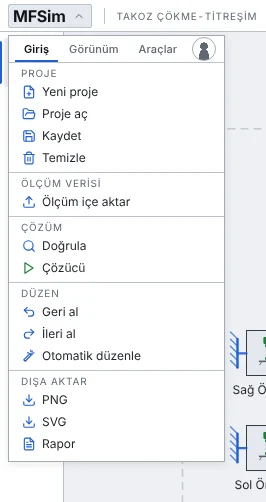
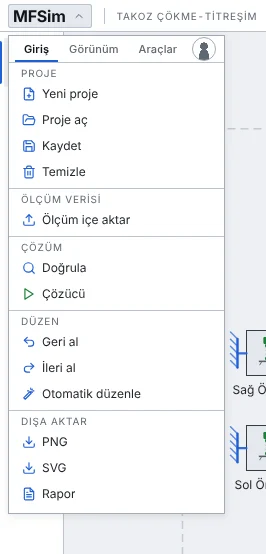
Canlı not 142: Komutlar penceresinde satırlar biraz açıldı
Komutlar penceresinin (MFSim ▾) satırları 22 px'ti. Kullanıcı: "Şu
kısımda butonlar arasını biraz açabiliriz. Çok yakın ve çok sıkı olmuş.
Bir miktar ama, çok değil."

- Satır 22 → 26 px (+4 px); pencere tek sütun, eni aynı.
- Kılavuzun Komutlar görüntüsü yenilendi.
- Kapı: ust-bant.spec.js → KOMUTLARIN PENCERESİ (satır 25–27 px).

Claude-Session: https://claude.ai/code/session_01KpdSQRdhtgMzMJyCqXgQ4V

diff --git a/MFSim_Olcum_Goruntuleyici.html b/MFSim_Olcum_Goruntuleyici.html
@@ -7391,7 +7391,8 @@ body.mf-radio-dragging .mf-radio-mini{ cursor:grabbing; }
    biraz daha daraltalım"*): iki sütunda sol sütun en uzun adın ("Otomatik
    düzenle") genişliğindeydi, kısa adların yanında ~60 px boşluk kalıyordu —
    pencere 312 → 185 px, satır 24 → 22 px. Önce Canlı Not 88: 352 → 312 px,
-   satır 28 + 2 → 24 px. */
+   satır 28 + 2 → 24 px. Sonra Canlı Not 142 (*"butonlar arasını biraz açabiliriz. Çok yakın …
+   Bir miktar ama, çok değil"*): satır 22 → 26 px. */
 .ve-rb-dock .ve-rb-group{
   display:block; padding:3px 6px; flex:none;
 }
@@ -7409,7 +7410,7 @@ body.mf-radio-dragging .mf-radio-mini{ cursor:grabbing; }
 .ve-rb-dock .ve-rb-btn,
 .ve-rb-dock .ve-rb-group-items:has(.ve-rb-btn--sm) .ve-rb-btn--lg{
   grid-row:auto; flex-direction:row; justify-content:flex-start; align-self:stretch;
-  width:auto; min-width:0; height:22px; min-height:22px; padding:0 14px 0 6px; gap:6px;
+  width:auto; min-width:0; height:26px; min-height:26px; padding:0 14px 0 6px; gap:6px;
 }
 .ve-rb-dock .ve-rb-btn .ve-rb-ico{ width:14px; height:14px; }
 .ve-rb-dock .ve-rb-btn .ve-rb-lbl{

diff --git a/css/styles.css b/css/styles.css
@@ -7213,7 +7213,8 @@ body.mf-radio-dragging .mf-radio-mini{ cursor:grabbing; }
    biraz daha daraltalım"*): iki sütunda sol sütun en uzun adın ("Otomatik
    düzenle") genişliğindeydi, kısa adların yanında ~60 px boşluk kalıyordu —
    pencere 312 → 185 px, satır 24 → 22 px. Önce Canlı Not 88: 352 → 312 px,
-   satır 28 + 2 → 24 px. */
+   satır 28 + 2 → 24 px. Sonra Canlı Not 142 (*"butonlar arasını biraz açabiliriz. Çok yakın …
+   Bir miktar ama, çok değil"*): satır 22 → 26 px. */
 .ve-rb-dock .ve-rb-group{
   display:block; padding:3px 6px; flex:none;
 }
@@ -7231,7 +7232,7 @@ body.mf-radio-dragging .mf-radio-mini{ cursor:grabbing; }
 .ve-rb-dock .ve-rb-btn,
 .ve-rb-dock .ve-rb-group-items:has(.ve-rb-btn--sm) .ve-rb-btn--lg{
   grid-row:auto; flex-direction:row; justify-content:flex-start; align-self:stretch;
-  width:auto; min-width:0; height:22px; min-height:22px; padding:0 14px 0 6px; gap:6px;
+  width:auto; min-width:0; height:26px; min-height:26px; padding:0 14px 0 6px; gap:6px;
 }
 .ve-rb-dock .ve-rb-btn .ve-rb-ico{ width:14px; height:14px; }
 .ve-rb-dock .ve-rb-btn .ve-rb-lbl{

diff --git a/tests/e2e/ust-bant.spec.js b/tests/e2e/ust-bant.spec.js
@@ -189,7 +189,9 @@ test('KOMUTLARIN PENCERESİ — markanın altında yüzer, sayfa ve tuval OYNAMA
   expect(r.odak).toBe('Giriş');
   expect(r.grup.length).toBeGreaterThan(2);
   expect(r.satir).toBeGreaterThan(8);
-  expect(r.yuksek).toBeLessThanOrEqual(22);                     // Canlı Not 92: satır 24 → 22 px (88: 28 + 2 → 24)
+  // Canlı Not 142: satır 22 → 26 px ("biraz aç, çok değil"); 92: 24 → 22; 88: 28 + 2 → 24
+  expect(r.yuksek).toBeGreaterThanOrEqual(25);
+  expect(r.yuksek).toBeLessThanOrEqual(27);
   expect(r.sol).toHaveLength(1);                                // tek sütun: iki sütunun arası ~60 px boştu
   expect(r.kesik).toEqual([]);
   // İKİ TEMADA okunur ve yazı kutusuna sığar (ortak ölçüler)
